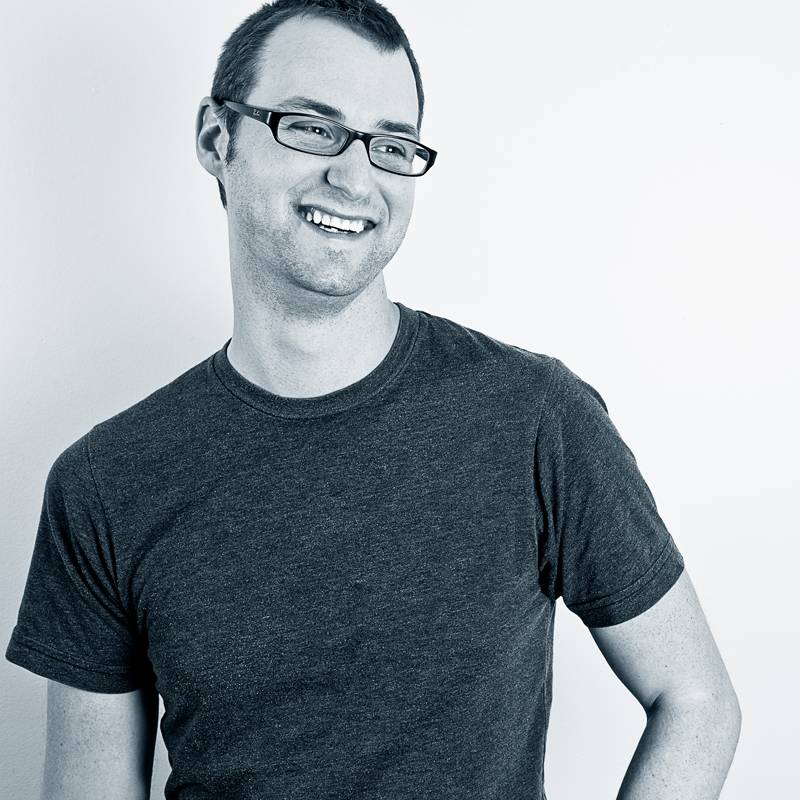
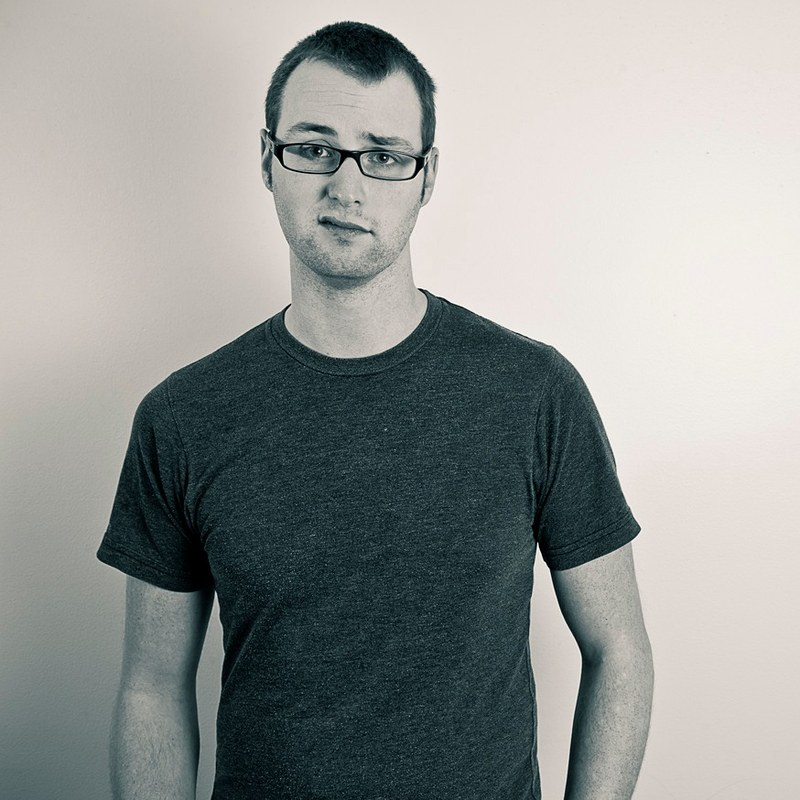
Update the site photos to the newer headshot
jeffrey-louden.jpg and jeffrey-louden-square.jpg now come from the same
photo as the contact card. The h-card gains u-photo.

Claude-Session: https://claude.ai/code/session_01UZcHYtUoiQWyJW2SxxetRz

diff --git a/public/index.html b/public/index.html
@@ -499,6 +499,7 @@
 <body class="h-card">
   <!-- An h-card (microformats2): the page is also a machine-readable profile card. -->
   <data class="u-url u-uid" value="https://jefflouden.com/"></data>
+  <data class="u-photo" value="https://jefflouden.com/jeffrey-louden-square.jpg"></data>
   <button id="theme" type="button" hidden><svg viewBox="0 0 16 16" aria-hidden="true" focusable="false"><circle cx="8" cy="8" r="6.5" fill="none" stroke="currentColor" stroke-width="1.25"/><path class="half" d="M8 1.5a6.5 6.5 0 0 1 0 13z" fill="currentColor"/></svg></button>
   <main>
     <p class="print-note">The full résumé is at jefflouden.com/resume.pdf</p>

diff --git a/CLAUDE.md b/CLAUDE.md
@@ -2,7 +2,7 @@
 
 Jeff's personal site and his long-term replacement for LinkedIn. One static page, `public/index.html`, with no build step. The only server code is `functions/_middleware.js`, a tiny Cloudflare Pages Function that serves the Markdown version of the home page to AI agents (scoped to `/` by `public/_routes.json`); the site must keep working if it is removed. Keep it that way: no frameworks, no client-side rendering of content, no new third-party scripts. Fonts are self-hosted in `public/fonts`. Analytics come from Cloudflare (zone traffic analytics plus Web Analytics, which Cloudflare injects at the edge), so the repo carries no analytics script. The page should still work in 20 years.
 
-Design: neutral paper and ink with one oxblood accent (default link underline, text selection). Light or dark follows the system setting; a toggle in the top-right corner of the page overrides it (a quiet ink ring, half filled, that turns over between the modes and is labelled for screen readers with the mode it switches to), saved in `localStorage` (`theme`) and applied by a tiny `<head>` script on both pages before paint, and a choice that matches the system is forgotten. Without JavaScript the toggle stays hidden. Dark tokens live under `@media (prefers-color-scheme: dark)` guarded by `:root:not([data-theme="light"])` and again under `:root[data-theme="dark"]`; keep the two copies in step. Switching cross-fades the page over 0.6s with the View Transitions API, on the icon's timing (instant where unsupported or with reduced motion). The browser's `theme-color` follows the chosen mode, and print is always light, without the toggle, with a line pointing to the résumé; Cmd/Ctrl+P opens the résumé PDF instead of printing the page. The Aureo bars use `--aureo-1` to `--aureo-5`: aureo.audio's own colors in dark mode, deeper versions of the same hues in light so they hold up on paper, where the lockup also gets a soft drop shadow. Links rest at 80% opacity with underlines at 60% effective, and both go to 100% on hover; hover never changes their color. Type: Instrument Sans for UI and Newsreader for the one-line intro, one quiet column. Keep the intro short. The page is also an h-card (microformats2: `p-name`, `p-job-title`, `p-org`, `p-note`, `u-email`, `u-url`, `p-locality`); keep the classes when editing those lines, and add `u-photo` once there is a new headshot. Jeff doesn't use semicolons in his writing; keep them out of the copy, the résumé and llms.txt. The 404 page, a console message and a comment atop the source carry a small horror-movie wink; keep it to a whisper, the rest stays executive. The console also prints the name in block characters drawn after Instrument Sans and a few pointers for engineers (source, Markdown via `curl`, llms.txt, résumé, email); keep it that short. The footer copyright starts in 2009, the year the domain was registered; bump the end year each January.
+Design: neutral paper and ink with one oxblood accent (default link underline, text selection). Light or dark follows the system setting; a toggle in the top-right corner of the page overrides it (a quiet ink ring, half filled, that turns over between the modes and is labelled for screen readers with the mode it switches to), saved in `localStorage` (`theme`) and applied by a tiny `<head>` script on both pages before paint, and a choice that matches the system is forgotten. Without JavaScript the toggle stays hidden. Dark tokens live under `@media (prefers-color-scheme: dark)` guarded by `:root:not([data-theme="light"])` and again under `:root[data-theme="dark"]`; keep the two copies in step. Switching cross-fades the page over 0.6s with the View Transitions API, on the icon's timing (instant where unsupported or with reduced motion). The browser's `theme-color` follows the chosen mode, and print is always light, without the toggle, with a line pointing to the résumé; Cmd/Ctrl+P opens the résumé PDF instead of printing the page. The Aureo bars use `--aureo-1` to `--aureo-5`: aureo.audio's own colors in dark mode, deeper versions of the same hues in light so they hold up on paper, where the lockup also gets a soft drop shadow. Links rest at 80% opacity with underlines at 60% effective, and both go to 100% on hover; hover never changes their color. Type: Instrument Sans for UI and Newsreader for the one-line intro, one quiet column. Keep the intro short. The page is also an h-card (microformats2: `p-name`, `p-job-title`, `p-org`, `p-note`, `u-email`, `u-url`, `p-locality`); keep the classes when editing those lines. Jeff doesn't use semicolons in his writing; keep them out of the copy, the résumé and llms.txt. The 404 page, a console message and a comment atop the source carry a small horror-movie wink; keep it to a whisper, the rest stays executive. The console also prints the name in block characters drawn after Instrument Sans and a few pointers for engineers (source, Markdown via `curl`, llms.txt, résumé, email); keep it that short. The footer copyright starts in 2009, the year the domain was registered; bump the end year each January.
 
 ## Source of truth
 
@@ -35,8 +35,9 @@ When asked to sync:
    - `public/llms.txt` (plain-language profile for AI answer engines; keep it factual and in sync with the page)
    - `public/index.md` (the page as Markdown; served at `/` to `Accept: text/markdown` requests by `functions/_middleware.js`)
    - `public/.well-known/ai-catalog.json` if the headline or the profile's representative queries change
-   - `public/jeffrey-louden.vcf` (the contact card linked as "Save contact": name, current title and org, email, site, city, and a 256px square headshot embedded as base64 (for now a crop of an older photo, to be replaced with a new headshot); vCard 3.0 with CRLF line endings, lines folded at 75)
+   - `public/jeffrey-louden.vcf` (the contact card linked as "Save contact": name, current title and org, email, site, city, and a 256px square headshot embedded as base64, a tight crop of the same photo as `jeffrey-louden-square.jpg`; vCard 3.0 with CRLF line endings, lines folded at 75)
    - `public/sitemap.xml` `<lastmod>` and `public/humans.txt` "Last update"
+   - `public/jeffrey-louden.jpg` (1200x800) and `public/jeffrey-louden-square.jpg` (800x800) when the headshot changes, from the same source photo, plus the vCard photo and a fresh square crop for Jeff to use elsewhere
    - `public/og.png` if the headline or title changed (it is a 1200x630 card rendered from HTML with the site fonts and `beard.jpg`)
    - the résumé: edit `resume/resume.html` to match, then run `resume/build.sh <path-to-chrome>` to regenerate `public/resume.pdf`. It lives at the short `/resume.pdf` (saved as `jeffrey-louden-resume.pdf` via `_headers`; `_redirects` sends the old `/jeffrey-louden-resume.pdf` there). It must stay one US Letter page; check the page count after building. With `pypdf` installed, the build also sets the PDF's author and subject. The résumé also lists education and a short line per role
    - new organizations get a `data-brand` underline in their true brand color (see the brand block in the CSS); black brands use `ink`
